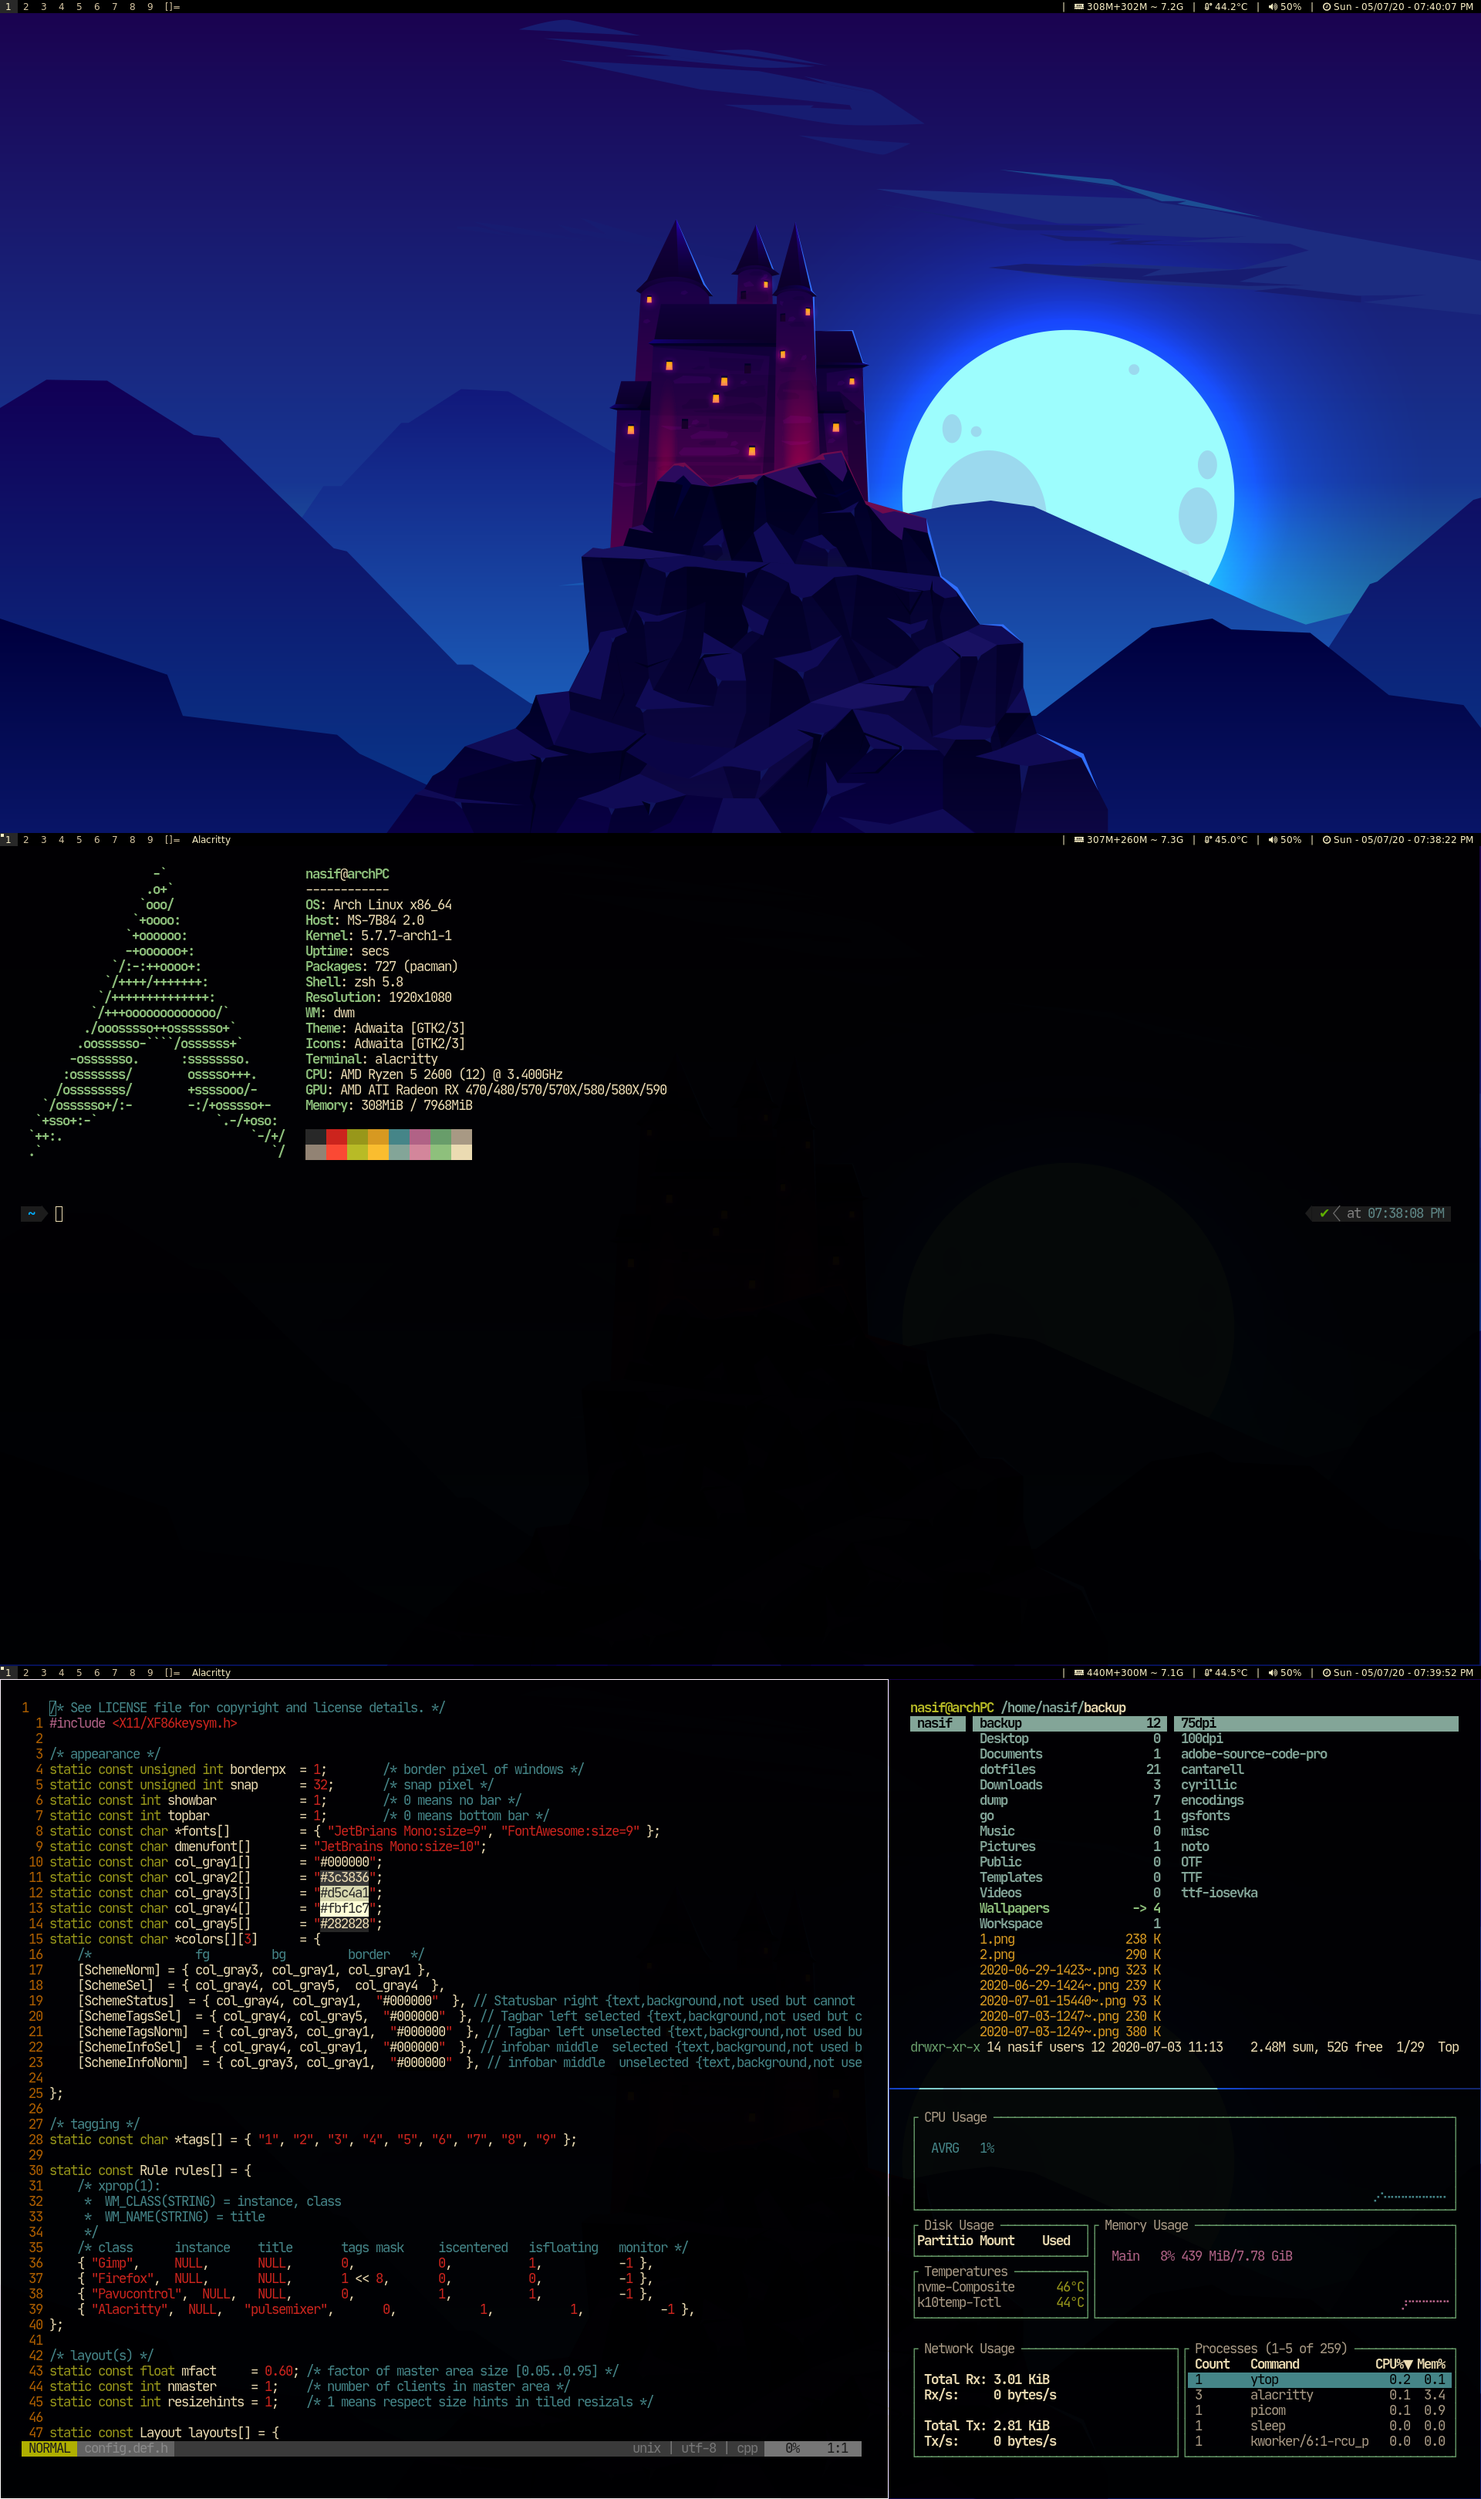
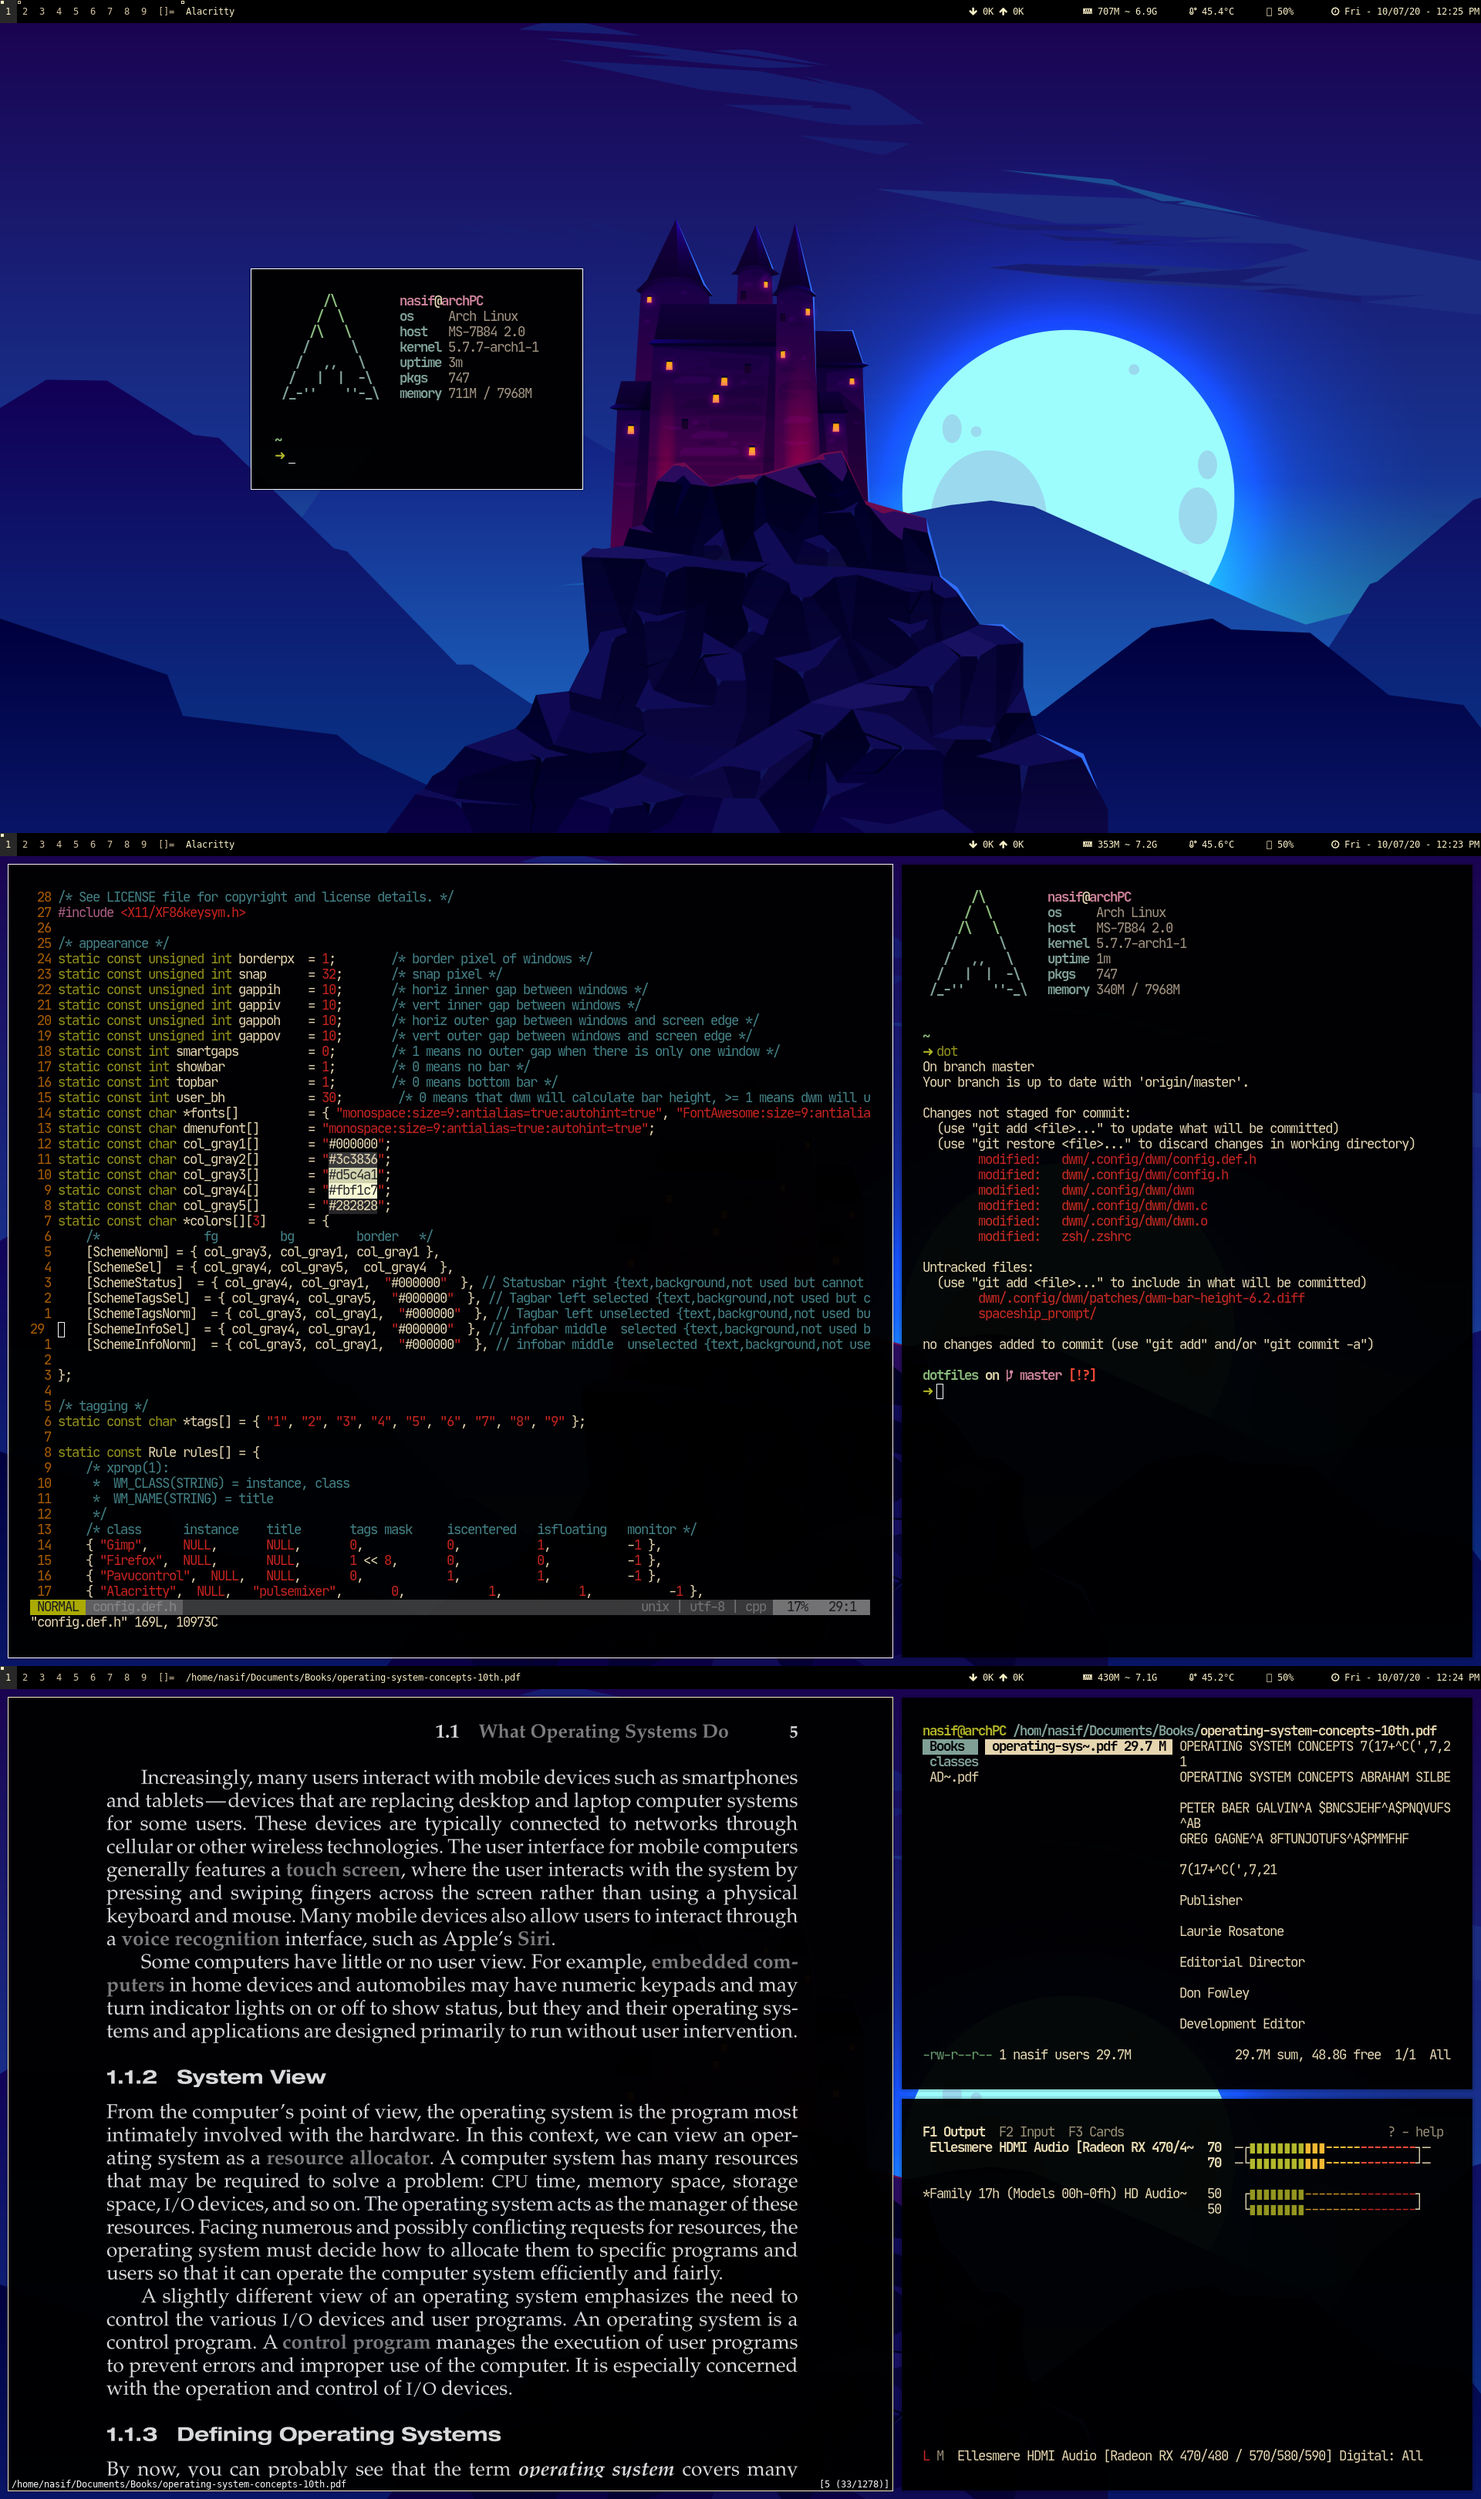
Changes to zshrc dwm and preview pic
-Changes powelevel10k to spaceship prompt
    -Patched dwm for bar height changes
    -New pic for github preview

diff --git a/dwm/.config/dwm/config.def.h b/dwm/.config/dwm/config.def.h
@@ -11,8 +11,9 @@ static const unsigned int gappov    = 10;       /* vert outer gap between window
 static const int smartgaps          = 0;        /* 1 means no outer gap when there is only one window */
 static const int showbar            = 1;        /* 0 means no bar */
 static const int topbar             = 1;        /* 0 means bottom bar */
-static const char *fonts[]          = { "monospace:size=8:antialias=true:autohint=true", "FontAwesome:size=10:antialias=true" };
-static const char dmenufont[]       = "monospace:size=8:antialias=true:autohint=true";
+static const int user_bh            = 30;        /* 0 means that dwm will calculate bar height, >= 1 means dwm will user_bh as bar height */
+static const char *fonts[]          = { "monospace:size=9:antialias=true:autohint=true", "FontAwesome:size=9:antialias=true" };
+static const char dmenufont[]       = "monospace:size=9:antialias=true:autohint=true";
 static const char col_gray1[]       = "#000000";
 static const char col_gray2[]       = "#3c3836";
 static const char col_gray3[]       = "#d5c4a1";

diff --git a/dwm/.config/dwm/config.h b/dwm/.config/dwm/config.h
@@ -11,8 +11,9 @@ static const unsigned int gappov    = 10;       /* vert outer gap between window
 static const int smartgaps          = 0;        /* 1 means no outer gap when there is only one window */
 static const int showbar            = 1;        /* 0 means no bar */
 static const int topbar             = 1;        /* 0 means bottom bar */
-static const char *fonts[]          = { "monospace:size=8:antialias=true:autohint=true", "FontAwesome:size=10:antialias=true" };
-static const char dmenufont[]       = "monospace:size=8:antialias=true:autohint=true";
+static const int user_bh            = 30;        /* 0 means that dwm will calculate bar height, >= 1 means dwm will user_bh as bar height */
+static const char *fonts[]          = { "monospace:size=9:antialias=true:autohint=true", "FontAwesome:size=9:antialias=true" };
+static const char dmenufont[]       = "monospace:size=9:antialias=true:autohint=true";
 static const char col_gray1[]       = "#000000";
 static const char col_gray2[]       = "#3c3836";
 static const char col_gray3[]       = "#d5c4a1";

diff --git a/dwm/.config/dwm/dwm.c b/dwm/.config/dwm/dwm.c
@@ -1714,7 +1714,7 @@ setup(void)
 	if (!drw_fontset_create(drw, fonts, LENGTH(fonts)))
 		die("no fonts could be loaded.");
 	lrpad = drw->fonts->h;
-	bh = drw->fonts->h + 2;
+	bh = user_bh ? user_bh : drw->fonts->h + 2;
 	updategeom();
 	/* init atoms */
 	utf8string = XInternAtom(dpy, "UTF8_STRING", False);
